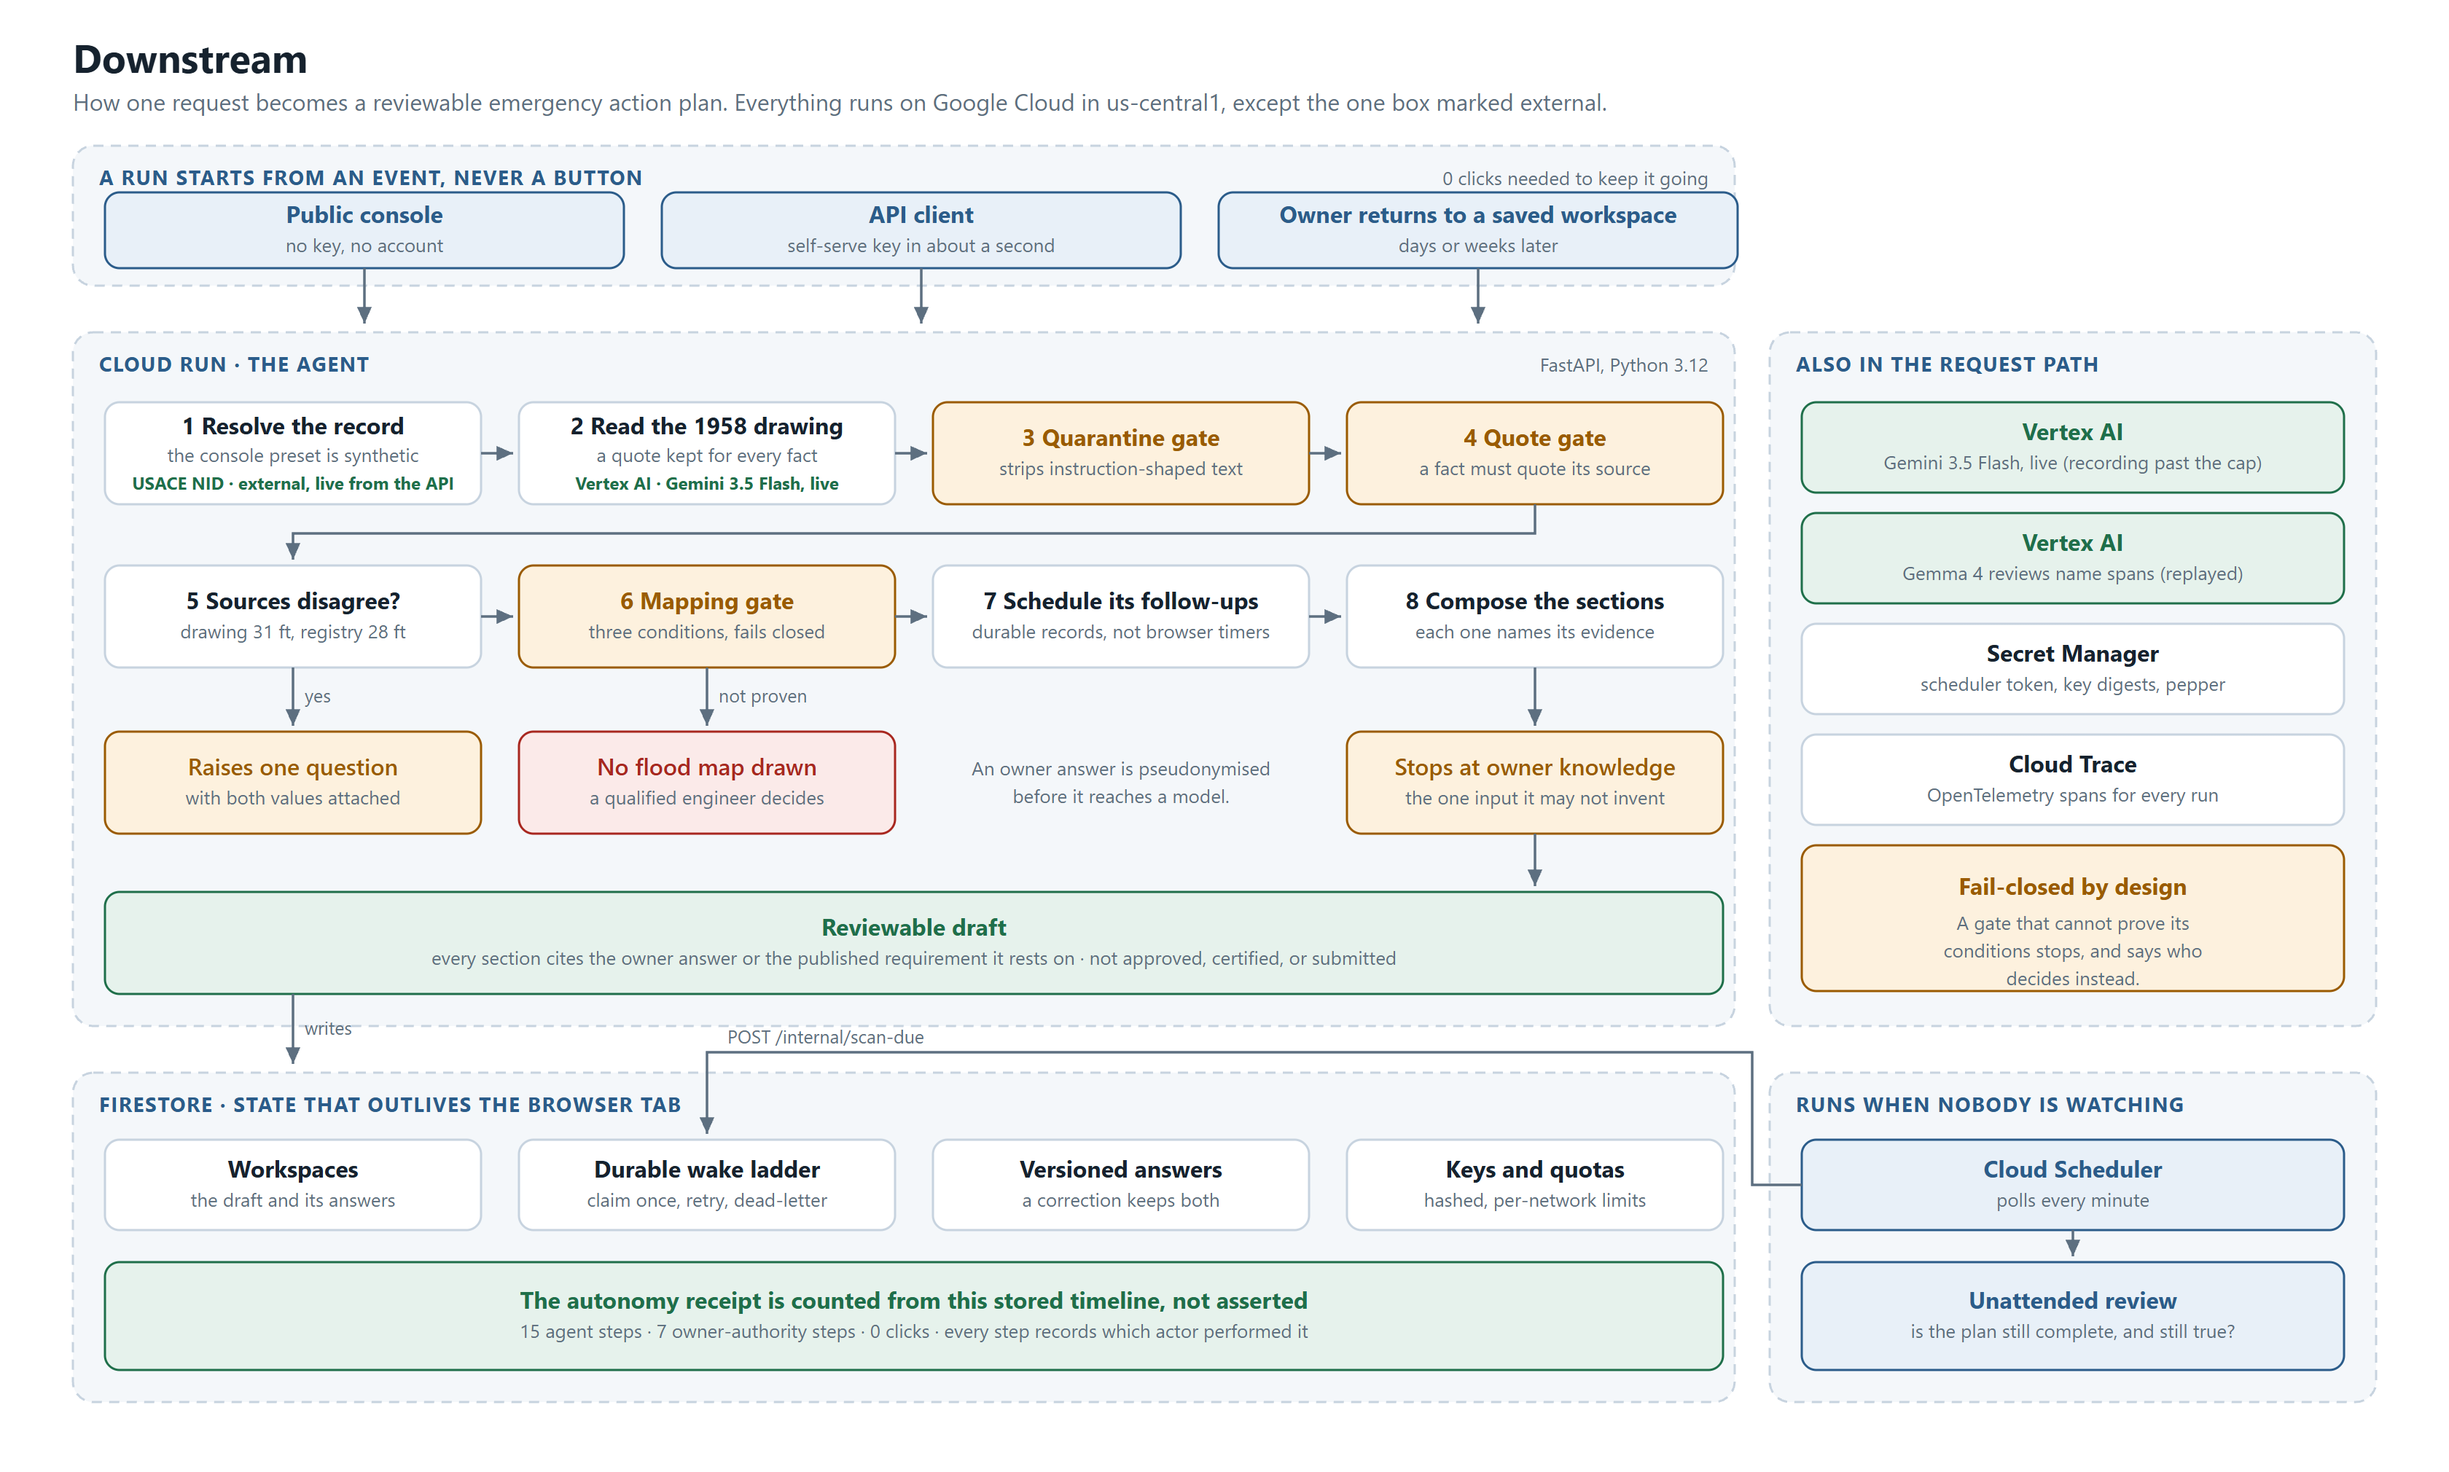
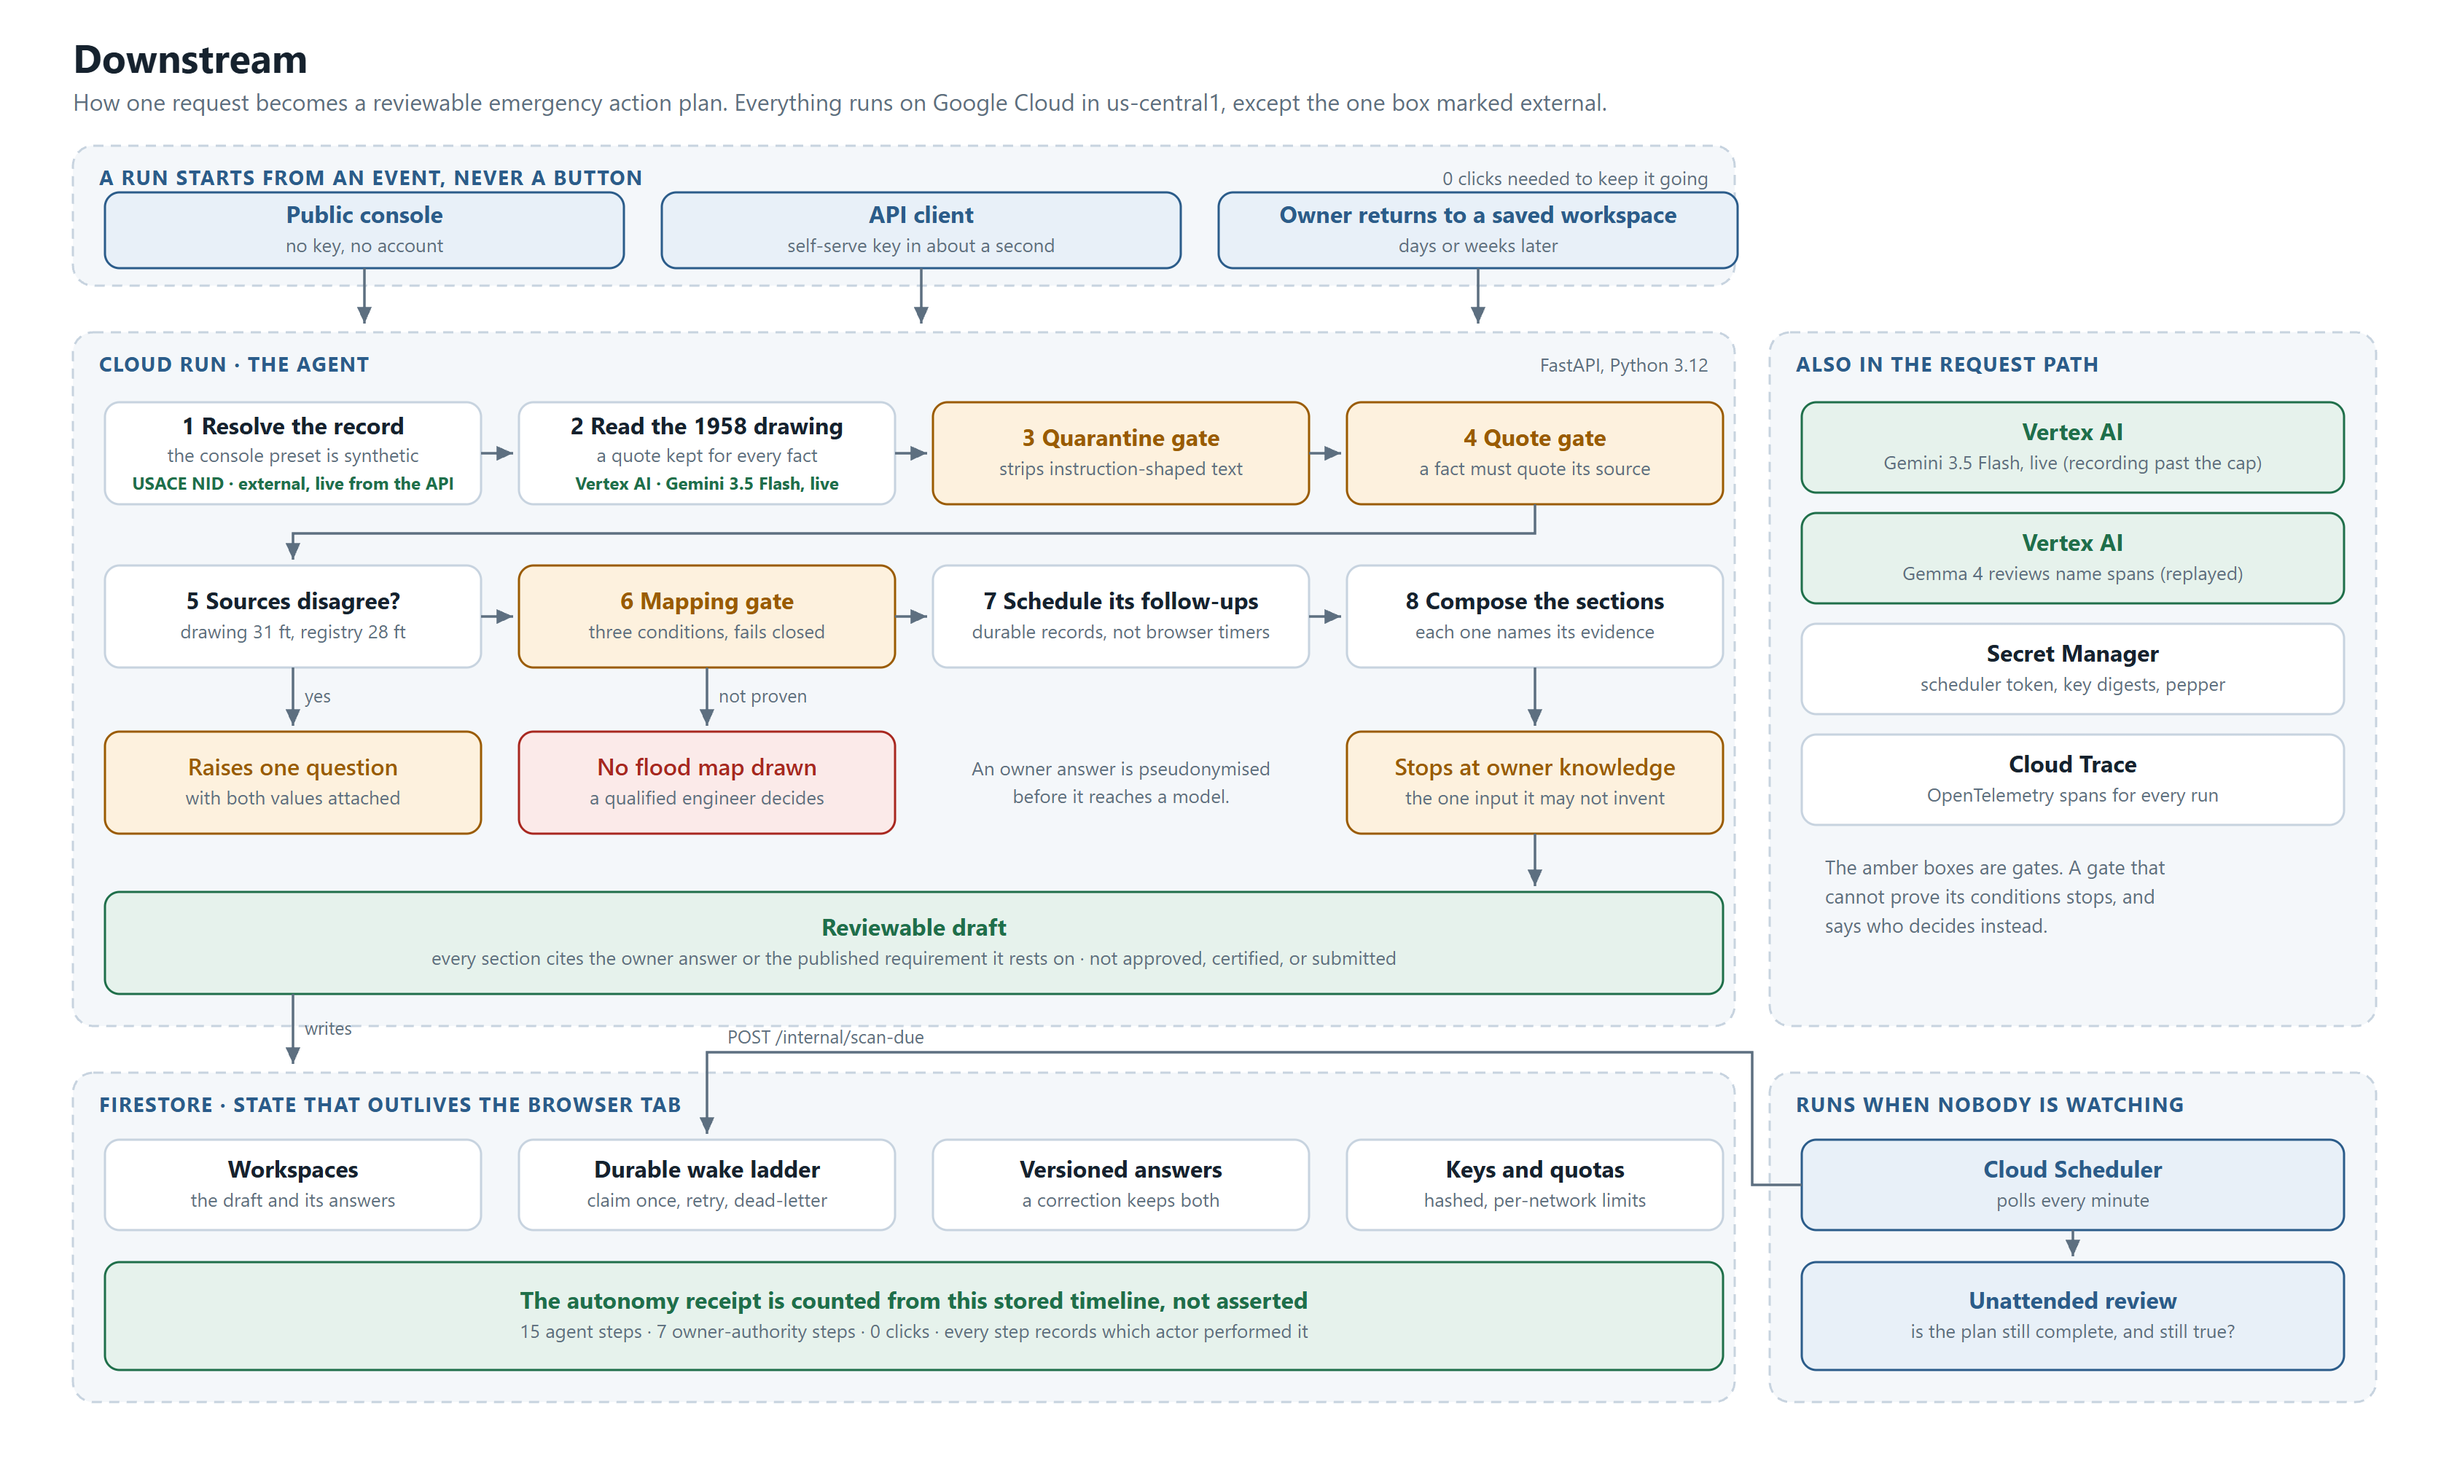
Stop the diagram calling a design principle a service
"Fail-closed by design" sat in a box among Vertex AI, Secret Manager and Cloud
Trace, so the service column read as five services when it is four, and it was
the one item on the diagram a judge could not verify anywhere. It is a legend
line now, which is what it always was: the amber boxes are gates.

Changed region(s): [[0.7188, 0.5614, 0.9688, 0.6861]]

diff --git a/docs/architecture.py b/docs/architecture.py
@@ -125,10 +125,8 @@ box(SX, 276, SW, 62, "Vertex AI", "Gemini 3.5 Flash, live (recording past the ca
 box(SX, 352, SW, 62, "Vertex AI", "Gemma 4 reviews name spans (replayed)", stroke=GREEN, fill=GREEN_BG, tc=GREEN)
 box(SX, 428, SW, 62, "Secret Manager", "scheduler token, key digests, pepper")
 box(SX, 504, SW, 62, "Cloud Trace", "OpenTelemetry spans for every run")
-a(f'<rect x="{SX}" y="580" width="{SW}" height="100" rx="10" fill="{AMBER_BG}" stroke="{AMBER}" stroke-width="1.5"/>')
-a(f'<text x="{SX + SW/2}" y="614" text-anchor="middle" font-size="16" font-weight="650" fill="{AMBER}">Fail-closed by design</text>')
-for i, line in enumerate(["A gate that cannot prove its", "conditions stops, and says who", "decides instead."]):
-    a(f'<text x="{SX + SW/2}" y="{638 + i*19}" text-anchor="middle" font-size="13" fill="{MUTED}">{line}</text>')
+for i, line in enumerate(["The amber boxes are gates. A gate that", "cannot prove its conditions stops, and", "says who decides instead."]):
+    a(f'<text x="{SX + 16}" y="{600 + i*20}" font-size="13.5" fill="{MUTED}">{line}</text>')
 
 # ---------------------------------------------------------------- state
 lane(50, 736, 1140, 226, "Firestore  ·  state that outlives the browser tab")
